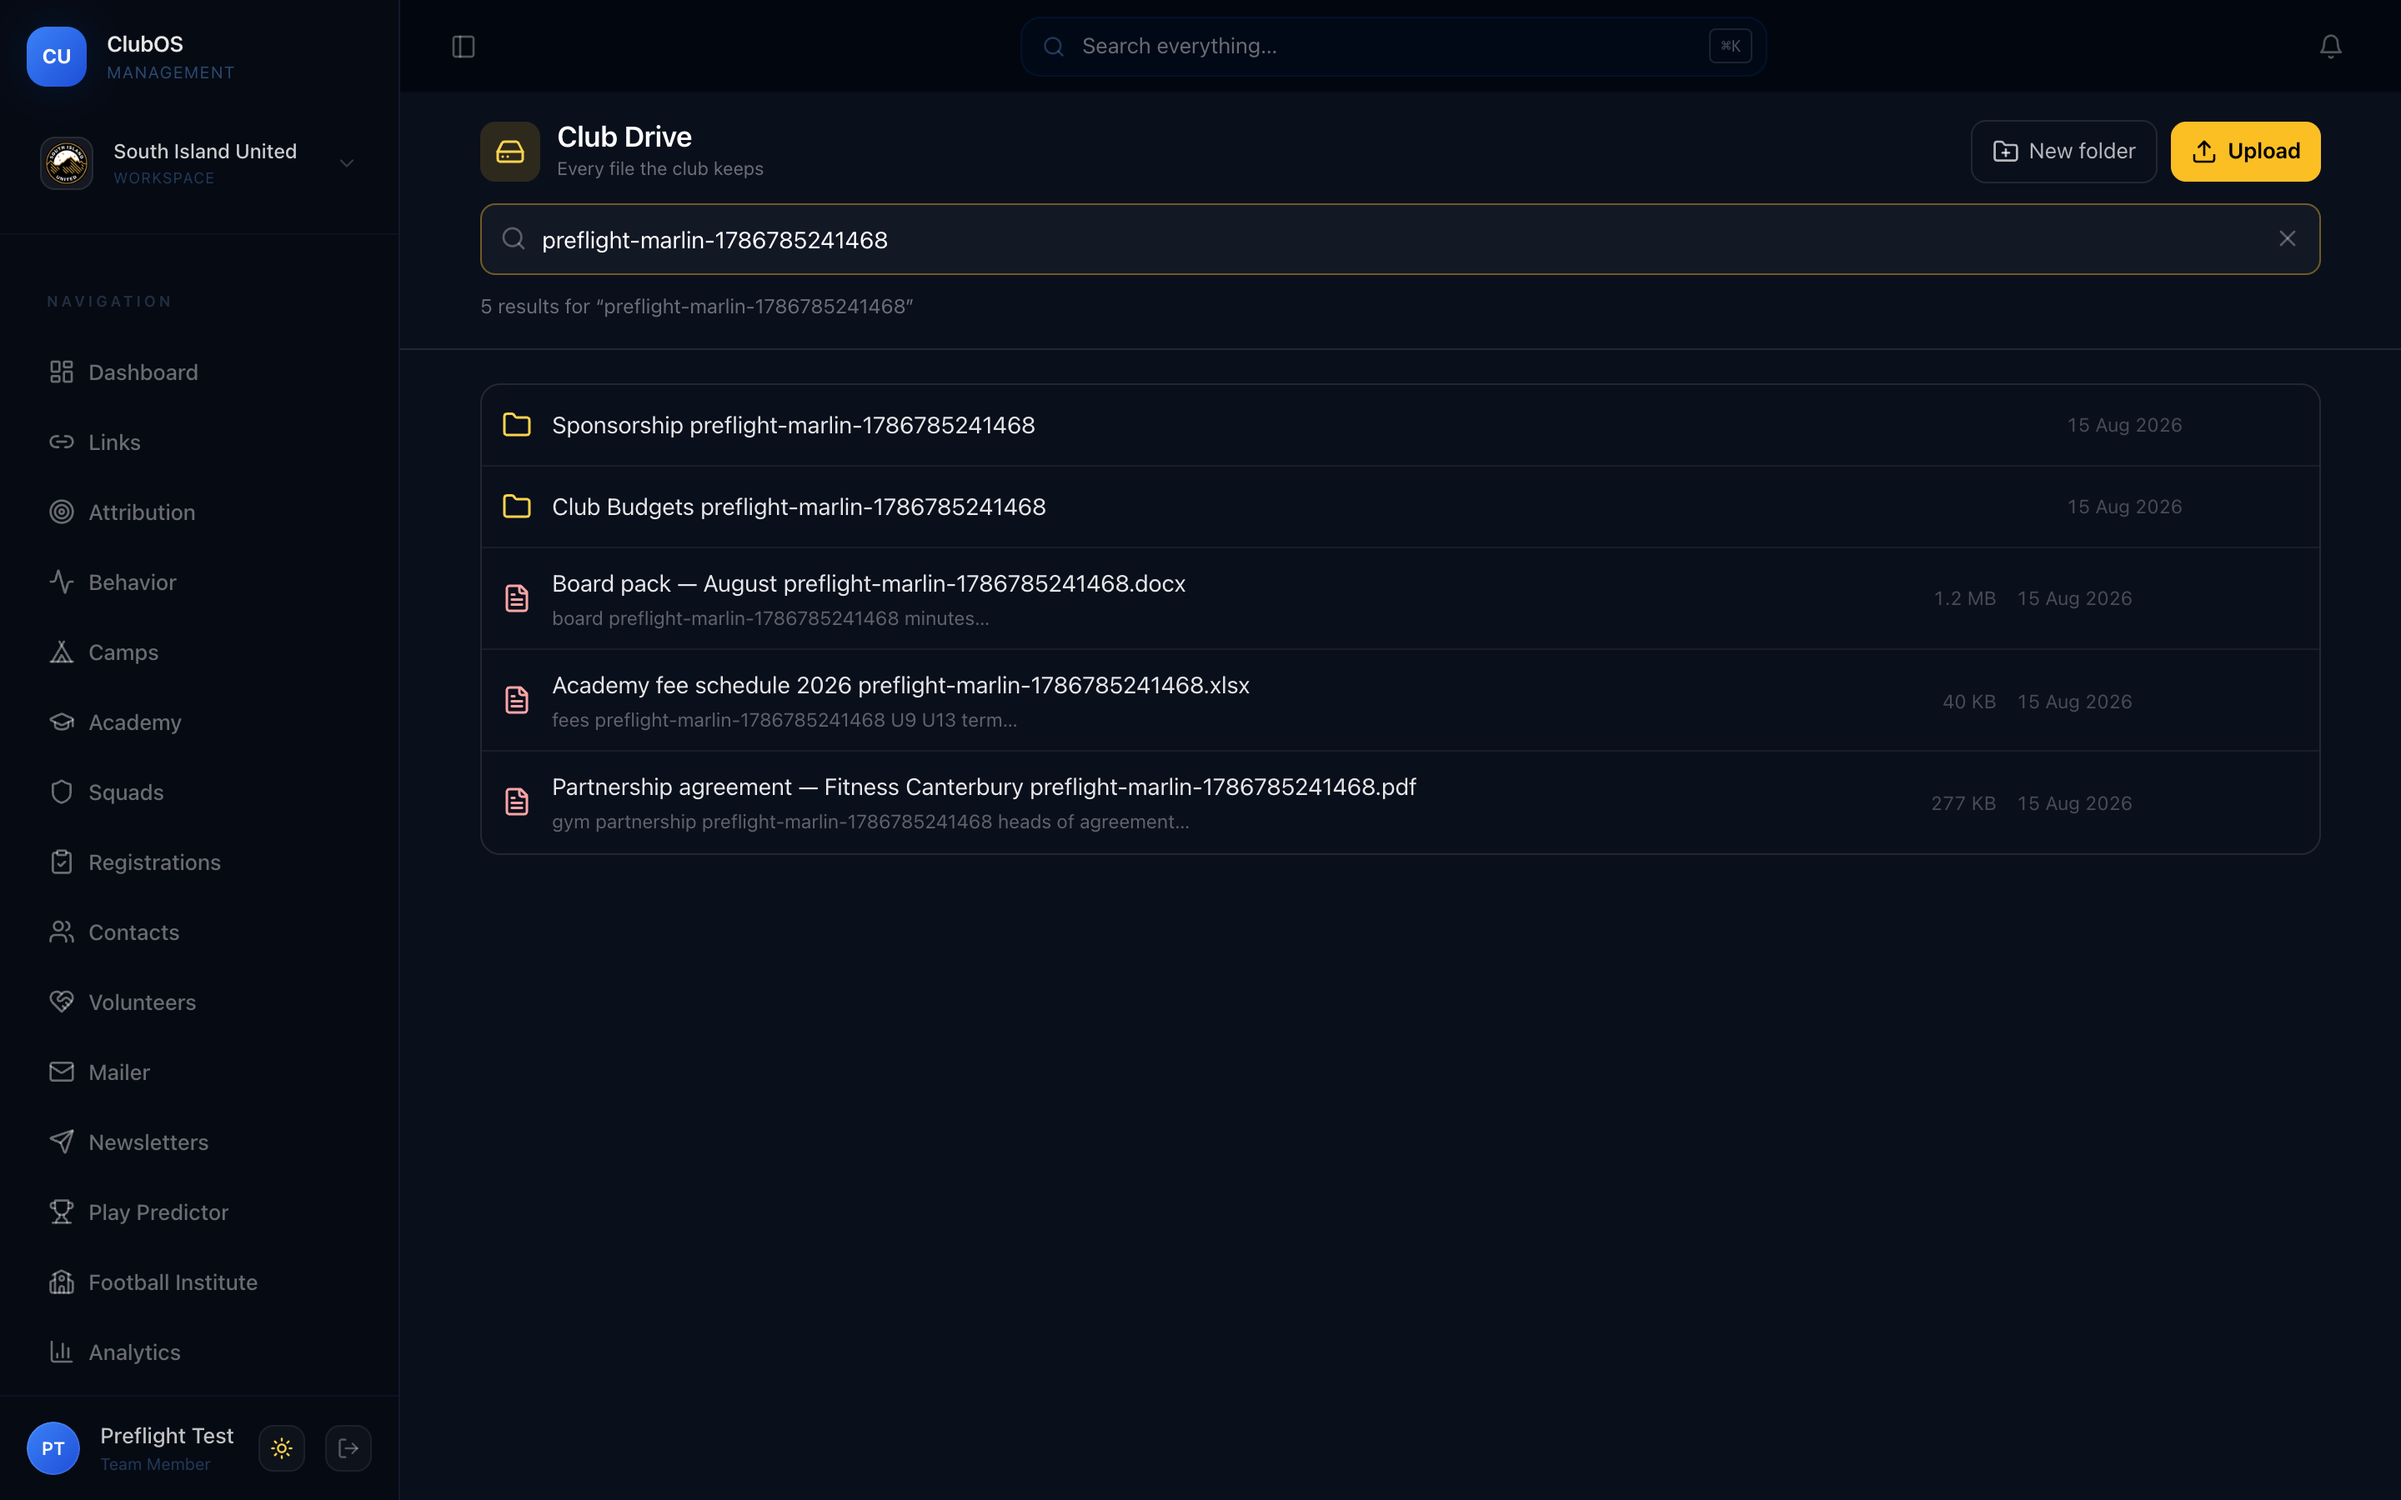
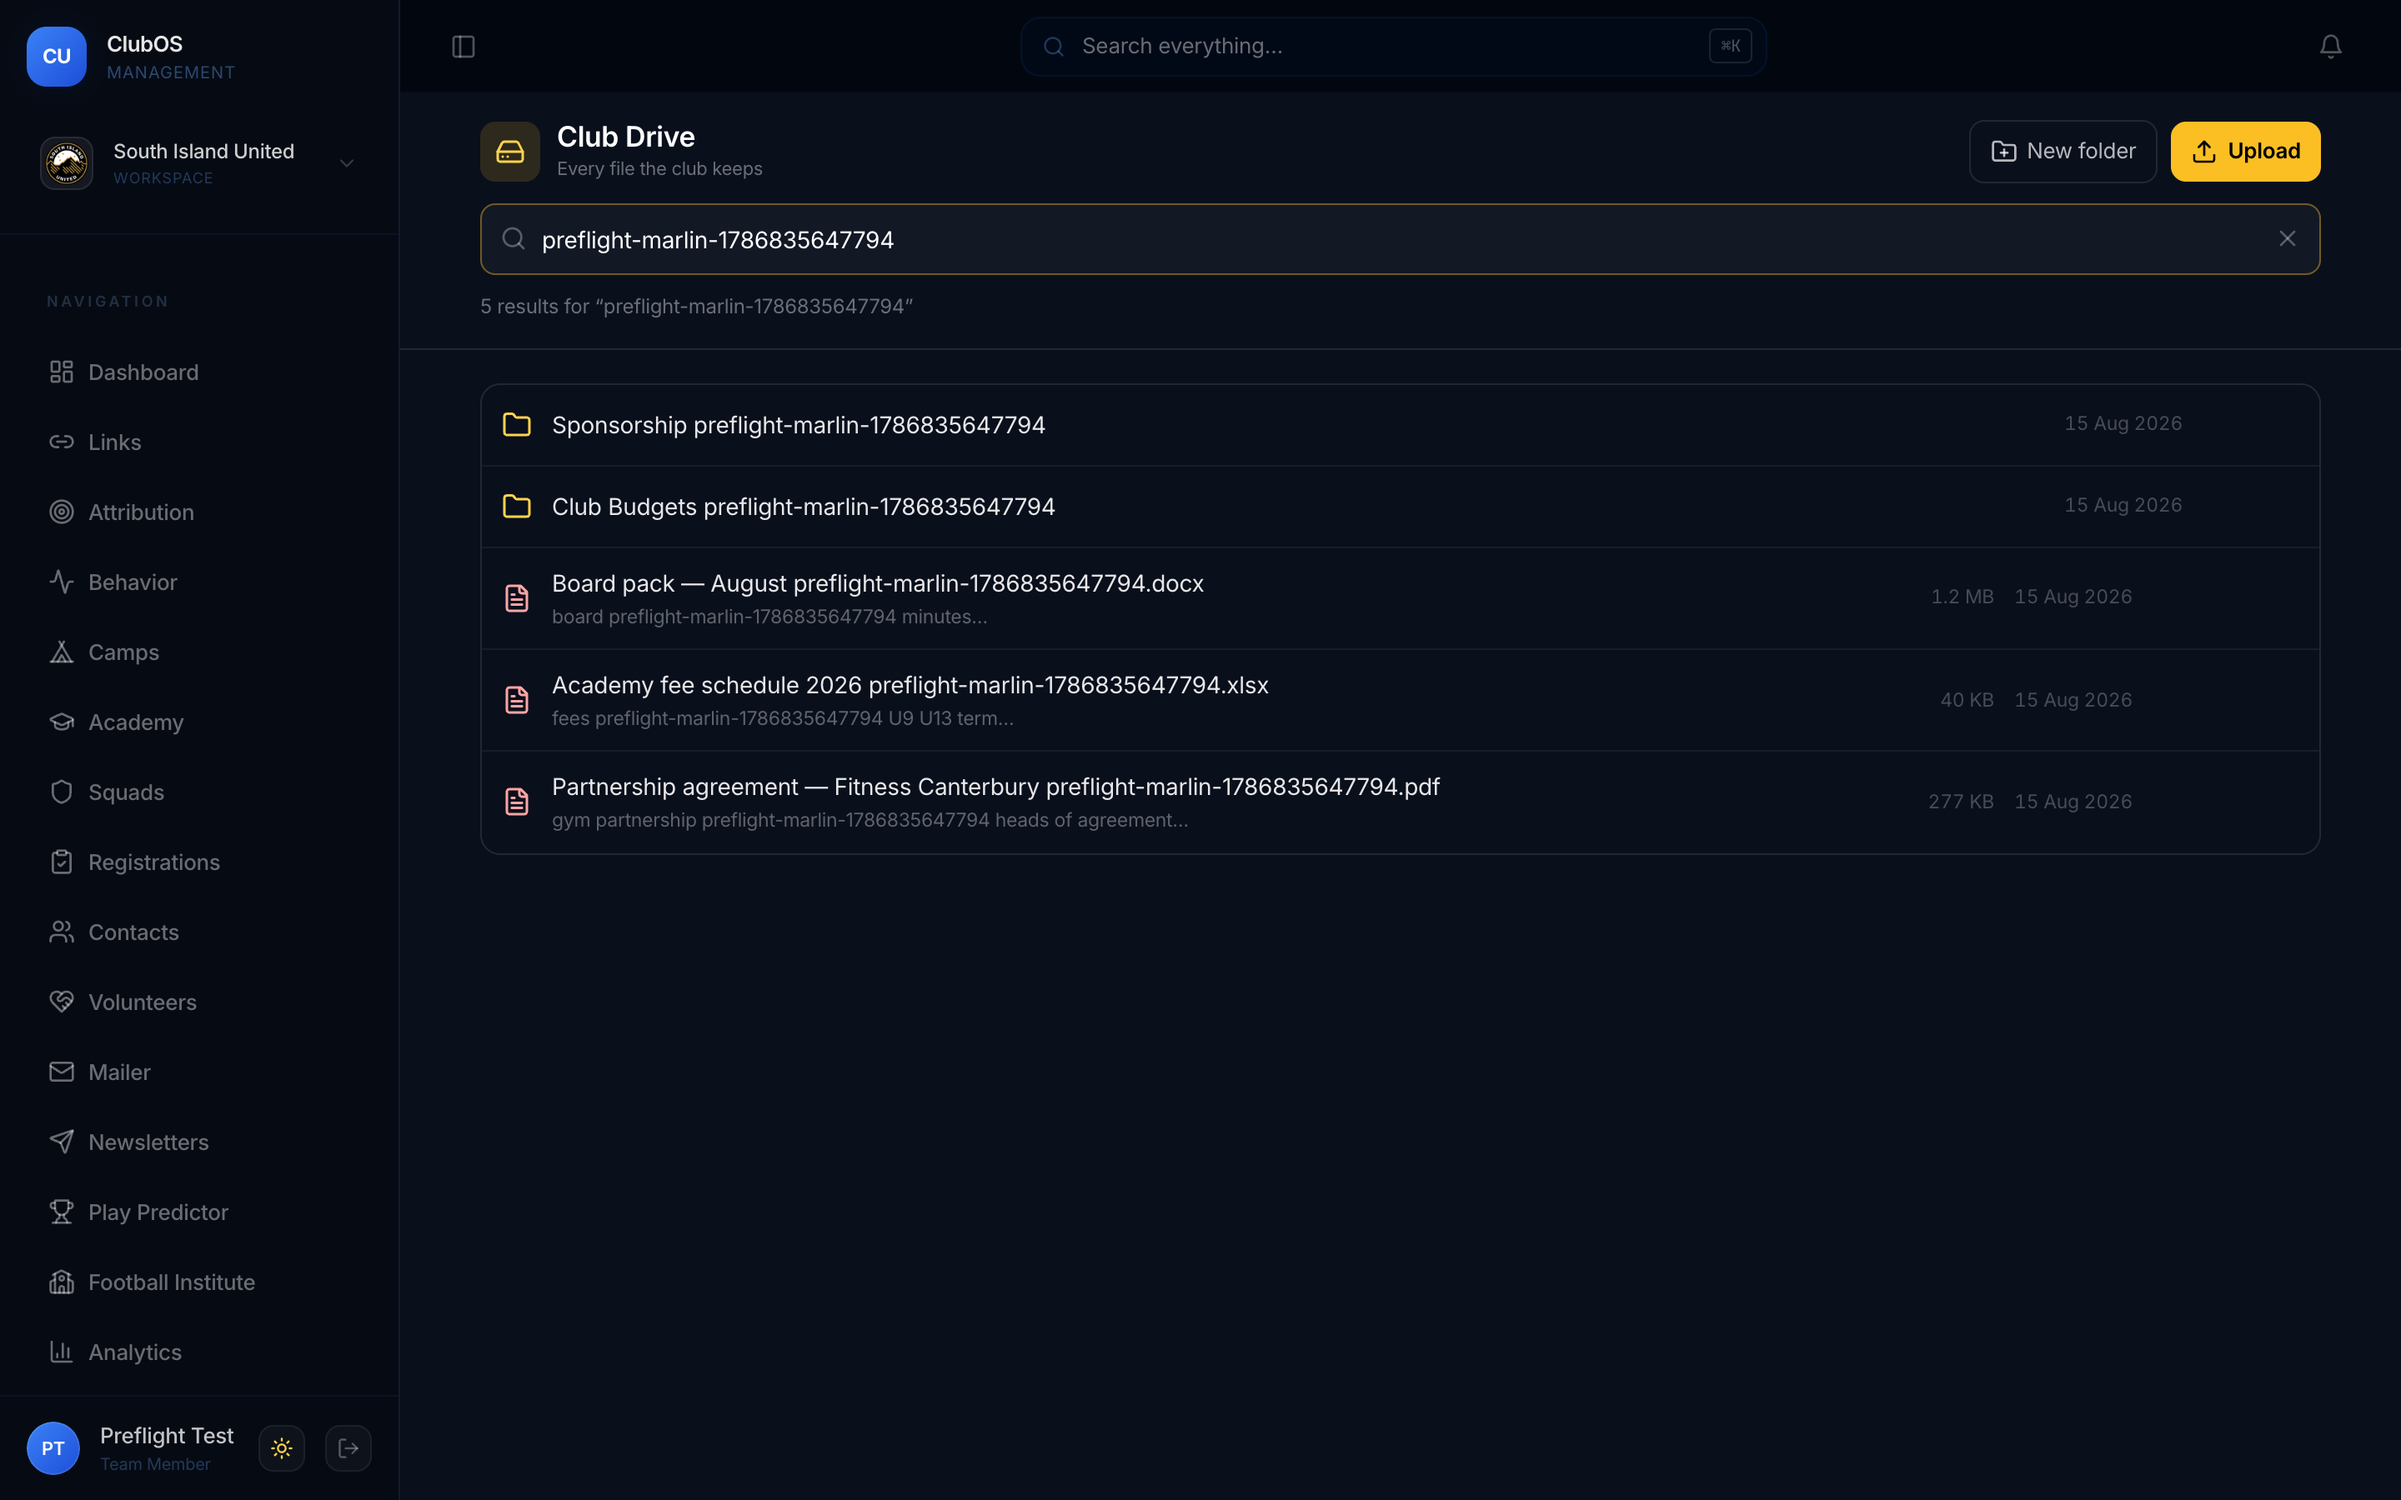
perf(drive): search took 5-7 seconds because of an N+1 on folder paths
The full-text query itself is ~10ms. The results loop then awaited
breadcrumbs() once per hit — up to 60 sequential recursive queries, each a
round trip to Sydney — so search at real scale (4,105 files) took 5–7 SECONDS.
The browser preflight caught it by failing an assertion that had passed at 20
files.

One recursive CTE seeded with every parent id now resolves the whole page's
paths at once.

Claude-Session: https://claude.ai/code/session_011Bzn9TaF5kVeZXPNVpbrTa

diff --git a/server/drive-routes.ts b/server/drive-routes.ts
@@ -118,6 +118,35 @@ async function breadcrumbs(nodeId: number | null): Promise<{ id: number; name: s
   return list.map((r: any) => ({ id: Number(r.id), name: String(r.name) }));
 }
 
+/**
+ * Folder paths for MANY nodes in one query.
+ *
+ * 🔴 The search results loop used to await breadcrumbs() per hit — up to 60
+ * sequential recursive queries, each a round trip to the database in Sydney,
+ * which made search take 5–7 SECONDS at real scale while the full-text query
+ * itself was 10ms. One recursive CTE seeded with every parent id answers the
+ * whole page at once.
+ */
+async function pathsFor(parentIds: (number | null)[]): Promise<Map<number, string[]>> {
+  const ids = Array.from(new Set(parentIds.filter((x): x is number => typeof x === "number")));
+  const map = new Map<number, string[]>();
+  if (!ids.length) return map;
+  const rows: any = await db.execute(sql`
+    WITH RECURSIVE up AS (
+      SELECT id AS start_id, id, parent_id, name, 0 AS depth
+      FROM drive_nodes WHERE id IN (${sql.join(ids.map((i) => sql`${i}`), sql`, `)})
+      UNION ALL
+      SELECT u.start_id, n.id, n.parent_id, n.name, u.depth + 1
+      FROM drive_nodes n JOIN up u ON n.id = u.parent_id
+    )
+    SELECT start_id, array_agg(name ORDER BY depth DESC) AS path
+    FROM up GROUP BY start_id
+  `);
+  const list = Array.isArray(rows) ? rows : rows.rows ?? [];
+  for (const r of list) map.set(Number(r.start_id), (r.path ?? []) as string[]);
+  return map;
+}
+
 /** The shape the client renders. Never leaks storage keys. */
 function present(node: any, gates: string[]) {
   return {
@@ -261,6 +290,9 @@ export function registerDriveRoutes(app: Express) {
       const list = Array.isArray(rows) ? rows : rows.rows ?? [];
       const gates = await gatesFor(list.map((r: any) => Number(r.id)));
 
+      // Resolve every result's path in ONE query before the loop.
+      const paths = await pathsFor(list.map((r: any) => (r.parent_id === null ? null : Number(r.parent_id))));
+
       const items = [] as any[];
       for (const r of list) {
         const id = Number(r.id);
@@ -279,7 +311,7 @@ export function registerDriveRoutes(app: Express) {
           const at = text.toLowerCase().indexOf(q.toLowerCase());
           if (at >= 0) p.snippet = (at > 60 ? "…" : "") + text.slice(Math.max(0, at - 60), at + 180).trim() + "…";
         }
-        p.path = (await breadcrumbs(node.parentId ? Number(node.parentId) : null)).map((b) => b.name);
+        p.path = node.parentId ? (paths.get(Number(node.parentId)) ?? []) : [];
         items.push(p);
       }
 

diff --git a/script/_searchlive.ts b/script/_searchlive.ts
@@ -1,0 +1,21 @@
+import pg from "pg"; import bcrypt from "bcryptjs";
+const BASE="https://app.usg.co.nz";
+const p=new pg.Pool({connectionString:process.env.DATABASE_URL,ssl:{rejectUnauthorized:false}});
+const email=`_slive_${Date.now()}@usg.co.nz`, pw=`T${Math.random().toString(36).slice(2)}!aA9`;
+const {rows}=await p.query(`INSERT INTO users (email,first_name,last_name,password,role,active) VALUES ($1,'S','L',$2,'team_member',true) RETURNING id`,[email,await bcrypt.hash(pw,10)]);
+const uid=rows[0].id;
+await p.query(`INSERT INTO user_organizations (user_id,organization_id,role,tabs) VALUES ($1,2,'admin',NULL)`,[uid]);
+const login=await fetch(`${BASE}/api/auth/login`,{method:"POST",headers:{"Content-Type":"application/json"},body:JSON.stringify({email,password:pw})});
+const cookie=(login.headers.getSetCookie?.()??[]).map(c=>c.split(";")[0]).join("; ");
+for (const q of ["monthly staff report","uniform","gym partnership","budget"]) {
+  const t0=Date.now();
+  const r=await fetch(`${BASE}/api/admin/drive/search?q=${encodeURIComponent(q)}`,{headers:{cookie,"X-Workspace-Slug":"christchurch-united"}});
+  const ms=Date.now()-t0;
+  const j:any=await r.json().catch(()=>({items:[]}));
+  console.log(`  "${q}".padEnd  →  HTTP ${r.status}  ${String(j.items?.length ?? 0).padStart(3)} results  ${ms}ms`);
+  if (j.items?.[0]) console.log(`        top: ${String(j.items[0].name).slice(0,60)}`);
+}
+await p.query(`DELETE FROM drive_access_log WHERE user_id=$1`,[uid]).catch(()=>{});
+await p.query(`DELETE FROM user_organizations WHERE user_id=$1`,[uid]);
+await p.query(`DELETE FROM users WHERE id=$1`,[uid]);
+await p.end();

diff --git a/script/_failcheck.ts b/script/_failcheck.ts
@@ -1,0 +1,13 @@
+import pg from "pg";
+const p = new pg.Pool({ connectionString: process.env.DATABASE_URL, ssl: { rejectUnauthorized: false } });
+const r = await p.query(`SELECT left(extract_error,70) AS err, count(*)::int n FROM drive_nodes WHERE extract_status='failed' GROUP BY 1 ORDER BY 2 DESC LIMIT 8`);
+console.log("\nfailures by reason:"); for (const x of r.rows) console.log(`  ${String(x.n).padStart(3)}  ${x.err}`);
+const u = await p.query(`SELECT CASE
+    WHEN lower(name) ~ '\\.(jpg|jpeg|png|gif|heic|webp|svg|tif|tiff)$' THEN 'image'
+    WHEN lower(name) ~ '\\.(mp4|mov|avi|mkv|m4v|wmv)$' THEN 'video'
+    WHEN lower(name) ~ '\\.pdf$' THEN 'pdf — scan, needs OCR'
+    WHEN lower(name) ~ '\\.(doc|ppt|pages|key|numbers)$' THEN 'legacy Office / Apple'
+    ELSE 'other' END AS why, count(*)::int n
+  FROM drive_nodes WHERE extract_status='unsupported' GROUP BY 1 ORDER BY 2 DESC`);
+console.log("\nstill not searchable:"); for (const x of u.rows) console.log(`  ${String(x.n).padStart(5)}  ${x.why}`);
+await p.end();
